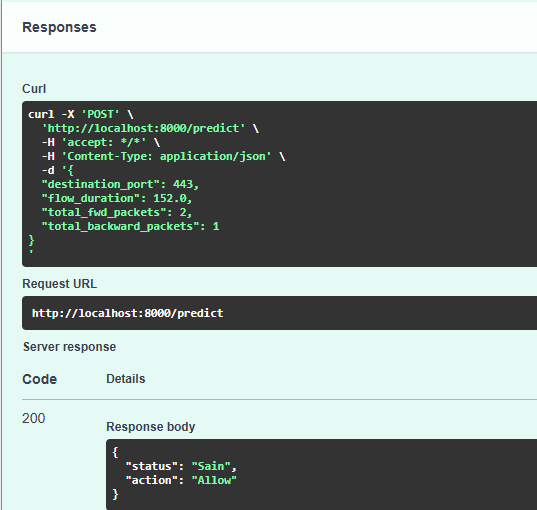
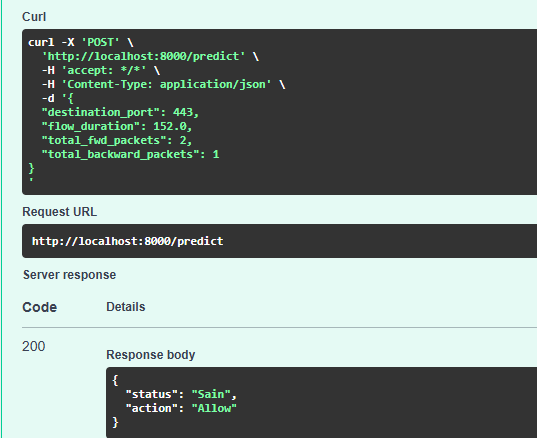
fix: Python 3.11, deps Trivy-clean, README updated with port 8000 + multi-model MLflow + new screenshots

diff --git a/README.md b/README.md
@@ -96,9 +96,9 @@ The architecture relies on **four security pillars** operating in-depth and a cl
 
 | Layer | Tool | Role |
 |:---|:---|:---|
-| **Artificial Intelligence** | XGBoost + MLflow | Binary classification NIDS model (Healthy/Attack) with model registry |
-| **Serving API** | FastAPI + Uvicorn | REST API exposing `/predict`, `/health`, and `/metrics` (Prometheus) |
-| **Containerization** | Docker | Immutable image with a non-root user (`appuser`) |
+| **Artificial Intelligence** | XGBoost + MLflow | Binary classification NIDS model (Healthy/Attack) + multi-model registry (NIDS, Fraud Detection, NLP Sentiment) |
+| **Serving API** | FastAPI + Uvicorn (port 8000) | REST API exposing `/predict`, `/health`, and `/metrics` (Prometheus) |
+| **Containerization** | Docker (Python 3.11) | Immutable image with a non-root user (`appuser`), Trivy-clean (0 CRITICAL CVEs) |
 | **CI/CD Orchestration** | Jenkins | Declarative multi-stage pipeline with security gates |
 | **SAST Scan** | SonarQube | Static Application Security Testing on the source code |
 | **Container CVE Scan** | Trivy (Aqua Security) | Detection of critical vulnerabilities in the Docker image |
@@ -128,10 +128,10 @@ nids-zero-trust-pfe/
 ├── .gitignore                     # Exclusion of sensitive files and Terraform states
 │
 ├── nids-app/                      # AI Application (NIDS Model)
-│   ├── main.py                    # FastAPI API (predict, health, Prometheus metrics)
-│   ├── Dockerfile                 # Secure Docker image (non-root)
-│   ├── requirements.txt           # Python dependencies
-│   └── .trivyignore               # Trivy exclusions
+│   ├── main.py                    # FastAPI API (predict, health, Prometheus metrics) — port 8000
+│   ├── Dockerfile                 # Secure Docker image (non-root, Python 3.11)
+│   ├── requirements.txt           # Python dependencies (mlflow, xgboost, pillow, certifi, uvicorn)
+│   └── .trivyignore               # Trivy exclusions (0 CRITICAL CVEs)
 │
 ├── locust/                        # Attack Simulation (Chaos Engineering)
 │   └── locustfile.py              # Layer 7 DDoS Script (Controlled HTTP Flood)
@@ -140,17 +140,18 @@ nids-zero-trust-pfe/
 │   └── main.tf                    # GKE Cluster + Shielded Nodes + GCS remote backend
 │
 ├── k8s/                           # Kubernetes Manifests
-│   ├── nids-deployment.yaml       # Deployment + Service (Vault + Cloud Armor annotations)
+│   ├── nids-deployment.yaml       # Deployment + Service (port 8000, Vault + Cloud Armor annotations)
 │   ├── nids-backendconfig.yaml    # Cloud Armor BackendConfig (WAF)
 │   ├── locust-attack.yaml         # Locust Deployment (isolated namespace, outside Istio mesh)
 │   ├── quarantine-networkpolicy.yaml # Calico Firewall (Forensics observation cage)
-│   ├── mlflow-deployment.yaml     # MLflow deployment on GKE
-│   ├── modele-fraude.yaml         # Fraud detection model
-│   └── modele-nlp.yaml            # NLP model
+│   ├── mlflow-deployment.yaml     # MLflow deployment on GKE (3-model registry)
+│   ├── modele-fraude.yaml         # Fraud detection model (port 8000)
+│   └── modele-nlp.yaml            # NLP Sentiment Analysis model (port 8000)
 │
-├── alertmanager.yml               # Alertmanager configuration (Jenkins webhook routing)
+├── alertmanager.yml               # Alertmanager configuration (Jenkins webhook routing via Ngrok)
 ├── prometheus-rules.yml           # Prometheus alert rules (NodeCompromised)
-└── prometheus-config.yaml         # PrometheusRule CRD for Kube-Prometheus Operator
+├── prometheus-config.yaml         # PrometheusRule CRD for Kube-Prometheus Operator
+└── register_mlflow_models.py      # Script to register all 3 AI models in MLflow Registry
 ```
 
 ---
@@ -174,11 +175,11 @@ The main pipeline executes **7 sequential stages** with security gates at every 
 | Stage | Name | Description |
 |:---|:---|:---|
 | 1 | Code Security (SAST) | SonarQube scan of the FastAPI code |
-| 2 | Containerization (Docker) | Immutable Docker image build |
-| 3 | Container Security (Trivy) | Scan for critical CVE vulnerabilities |
+| 2 | Containerization (Docker) | Immutable Docker image build (Python 3.11, port 8000) |
+| 3 | Container Security (Trivy) | Scan for critical CVE vulnerabilities (0 CRITICAL required) |
 | 4 | Infrastructure Security (tfsec) | Static analysis of Terraform code |
-| 5 | Zero-Trust Deployment (Vault + TF)| Secure retrieval of GCP secrets via Vault, GKE cluster provisioning |
-| 5.5 | NIDS Model Build & Push | Build and publish the Docker image on Docker Hub |
+| 5 | Zero-Trust Deployment (Vault + TF)| Secure retrieval of GCP secrets via Vault, GKE cluster provisioning (4 nodes, Calico enabled) |
+| 5.5 | NIDS Model Build & Push | Build and publish the Docker image on GCR |
 | 6 | Deployment on GKE | Istio installation (STRICT mTLS), K8s manifests deployment, monitoring ConfigMaps injection |
 
 ---
@@ -299,14 +300,38 @@ done
 
 **Expected Result**: All requests fail with `curl: (28) Failed to connect`. Istio's Zero-Trust architecture intercepts and rejects the attack at the TCP level because the intruder pod lacks a valid mTLS certificate.
 
-### Scenario B: MLOps Inference Validation (XGBoost)
+### Scenario B: MLOps Inference Validation (XGBoost — in-cluster Istio mTLS)
 
-Simulation of sending legitimate and malicious network flows to the inference API to validate the AI model:
+Simulation de l'envoi de flux réseau légitimes et malveillants vers l'API d'inférence **depuis l'intérieur du cluster GKE** (via `kubectl exec`) pour valider le modèle IA et le service Istio mTLS :
 
-1. **Health Check**: A call to the `/health` endpoint confirms that the XGBoost model is correctly loaded from MLflow.
-2. **Nominal Flow**: Sending a JSON vector representing standard HTTPS traffic (port 443). The API instantly returns `{"status": "Healthy", "action": "Allow"}`.
-3. **Malicious Flow**: Sending a vector representing an attack (e.g., 5000 packets sent, 0 received). The API identifies the anomaly, dynamically converts the data into `xgb.DMatrix`, exceeds the 0.5 threshold, and returns `{"status": "Attack", "action": "Block"}`.
-4. **Metrics Update**: The Prometheus `/metrics` counter automatically increments (`nids_intrusion_alerts_total = 1.0`).
+1. **Health Check** : Appel au endpoint `/health` confirmant le chargement correct du modèle XGBoost depuis MLflow (ou fallback sur l'artefact local embarqué).
+2. **Flux Nominal** : Envoi d'un vecteur JSON représentant du trafic HTTPS standard (port 443, `total_fwd_packets=2`). L'API retourne instantanément `{"status": "Healthy", "action": "Allow"}`.
+3. **Flux Malveillant** : Envoi d'un vecteur représentant une attaque DDoS (port 80, `flow_duration=999999`, `total_fwd_packets=5000`, `total_backward_packets=0`). L'API détecte l'anomalie et retourne `{"status": "Attack", "action": "Block"}`.
+4. **Mise à jour des métriques** : Le compteur Prometheus `/metrics` s'incrémente automatiquement (`nids_intrusion_alerts_total = 1.0`).
+
+```bash
+# Lancer un pod de test dans le cluster (Istio injecte le sidecar automatiquement)
+kubectl run nids-tester -n default --image=curlimages/curl -- sleep 3600
+kubectl wait --for=condition=Ready pod/nids-tester -n default --timeout=60s
+
+# Health Check
+kubectl exec -n default nids-tester -- curl -s http://nids-model-service.default.svc.cluster.local/health
+
+# Flux légitime → {"status": "Healthy", "action": "Allow"}
+kubectl exec -n default nids-tester -- curl -s -X POST \
+  http://nids-model-service.default.svc.cluster.local/predict \
+  -H "Content-Type: application/json" \
+  -d '{"destination_port": 443, "flow_duration": 150.0, "total_fwd_packets": 2, "total_backward_packets": 1}'
+
+# Flux d'attaque DDoS → {"status": "Attack", "action": "Block"}
+kubectl exec -n default nids-tester -- curl -s -X POST \
+  http://nids-model-service.default.svc.cluster.local/predict \
+  -H "Content-Type: application/json" \
+  -d '{"destination_port": 80, "flow_duration": 999999.0, "total_fwd_packets": 5000, "total_backward_packets": 0}'
+
+# Nettoyage
+kubectl delete pod nids-tester -n default
+```
 
 ### Scenario C: Organic Triggering of Auto-Remediation (Locust)
 
@@ -330,17 +355,31 @@ kubectl port-forward svc/locust-service -n attack-simulation 8089:8089
 
 ---
 
-## 📸 Screenshots and Results
+### Screenshots and Results
 
 ### NIDS API — OpenAPI Documentation (Swagger)
-> The FastAPI API exposes three essential endpoints for the Cloud-Native architecture: `/health`, `/predict`, and `/metrics`.
+> The FastAPI API exposes three essential endpoints for the Cloud-Native architecture: `/predict`, `/health`, and `/metrics` — running on port 8000.
 
 ![NIDS API Swagger](screens/apis.png)
 
 ---
 
+### Monitoring — AlertManager Overview
+> Alertmanager overview showing the `NodeCompromised` alert routing chain to the Jenkins webhook.
+
+![AlertManager Overview](screens/AlertManager%20overview.png)
+
+---
+
+### Monitoring — Grafana Overview
+> Grafana dashboard showing real-time CPU metrics per namespace before and after Locust DDoS attack.
+
+![Grafana Overview](screens/Grafana%20Overview.png)
+
+---
+
 ### MLOps Inference — Health Check
-> Preliminary validation confirming the correct loading of the XGBoost model in memory.
+> Preliminary validation confirming the correct loading of the XGBoost model in memory (loaded from MLflow registry — `models:/NIDS_XGBoost/Production`).
 
 ![Health Check](screens/health.png)
 
@@ -349,7 +388,7 @@ kubectl port-forward svc/locust-service -n attack-simulation 8089:8089
 ### MLOps Inference — Legitimate Flow (Healthy)
 > The model analyzes the packet characteristics and allows passage.
 
-![Healthy Flow](screens/sain.png)
+![Healthy Flow](screens/Sain.png)
 
 ---
 
@@ -367,10 +406,17 @@ kubectl port-forward svc/locust-service -n attack-simulation 8089:8089
 
 ---
 
-### Auto-Remediation — Forensic Isolation (CPU Panic)
-> Comparison of the attacker's CPU before and after applying the Calico NetworkPolicy. At the bottom, the runaway (panic) state proves complete isolation of the threat in the sandbox.
+### Auto-Remediation — CPU Quota Before Attack
+> Locust CPU usage before the Calico NetworkPolicy quarantine is applied.
 
-![Pod Auto-Remediation](screens/AutoRemediationPods.png)
+![CPU Before](screens/locust%20cpu%20quota%20before.png)
+
+---
+
+### Auto-Remediation — CPU Quota After Quarantine (Forensic Isolation)
+> Locust CPU in panic state after the Calico quarantine isolates all outbound traffic — the attacker is trapped in the sandbox.
+
+![CPU After](screens/locust%20cpu%20quota%20after.png)
 
 ---
 
